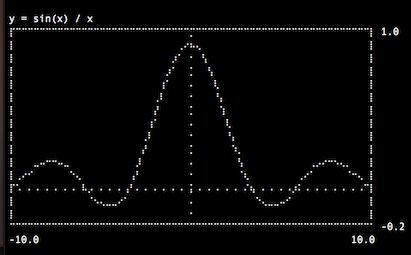
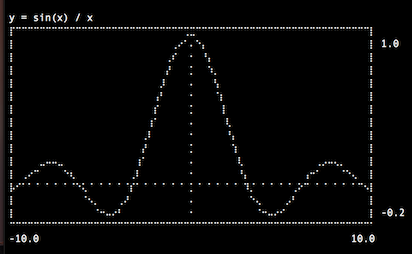
Fix axis display

diff --git a/src/lib.rs b/src/lib.rs
@@ -12,7 +12,7 @@
 //! # Usage
 //! ```toml
 //! [dependencies]
-//! textplots = "0.1"
+//! textplots = "0.2"
 //! ```
 //!
 //! ```rust
@@ -81,7 +81,19 @@ impl Default for Chart {
 
 impl Chart {
     /// Creates a new `Chart` object.
+    ///
+    /// # Panics
+    ///
+    /// Panics if `width` or `height` is less than 32.
     pub fn new(width: u32, height: u32, xmin: f32, xmax: f32) -> Self {
+        if width < 32 {
+            panic!("width should be more then 32, {} is provided", width);
+        }
+
+        if height < 32 {
+            panic!("height should be more then 32, {} is provided", height);
+        }
+
         Self {
             xmin,
             xmax,
@@ -131,9 +143,9 @@ impl Chart {
         let frame = self.canvas.frame();
         let rows = frame.split('\n').into_iter().count();
         for (i, row) in frame.split('\n').into_iter().enumerate() {
-            if i == 0 {
+            if i == 1 {
                 println!("{0} {1:.1}", row, self.ymax);
-            } else if i == (rows - 1) {
+            } else if i == (rows - 2) {
                 println!("{0} {1:.1}", row, self.ymin);
             } else {
                 println!("{}", row);
@@ -164,7 +176,7 @@ impl Plot for Chart {
         self.ymin = f32::min(self.ymin, ymin);
         self.ymax = f32::max(self.ymax, ymax);
 
-        let margin = (self.ymax - self.ymin) * 0.10;
+        let margin = (self.ymax - self.ymin) * 0.05;
         ymin = self.ymin - margin;
         ymax = self.ymax + margin;
         let yrange = ymax - ymin;
@@ -173,8 +185,7 @@ impl Plot for Chart {
         let i_center = ((xrange - self.xmax) / xrange) * self.width as f32;
         self.vline(i_center as u32);
 
-        let yrange_no_margin = self.ymax - self.ymin;
-        let j_center = ((yrange_no_margin - self.ymax) / yrange_no_margin) * self.height as f32;
+        let j_center = ((yrange - ymax) / yrange) * self.height as f32;
         self.hline(j_center as u32);
 
         // calculate func and translate (x, y) points into screen coordinates
